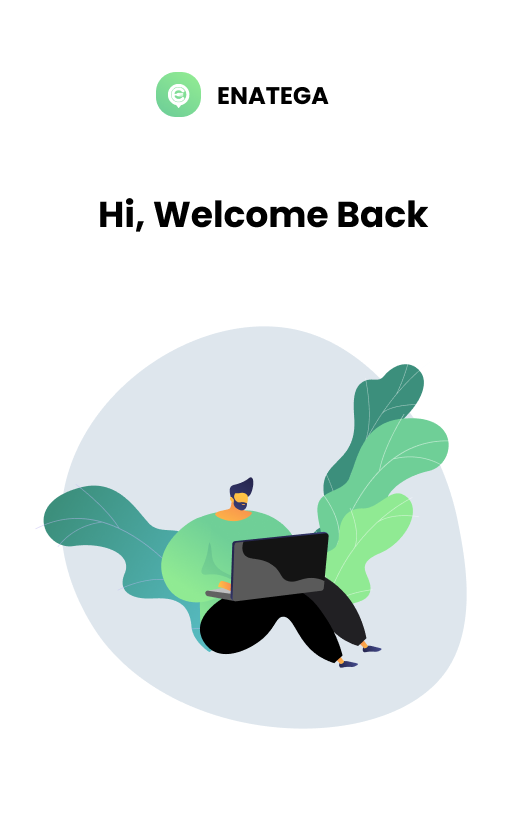
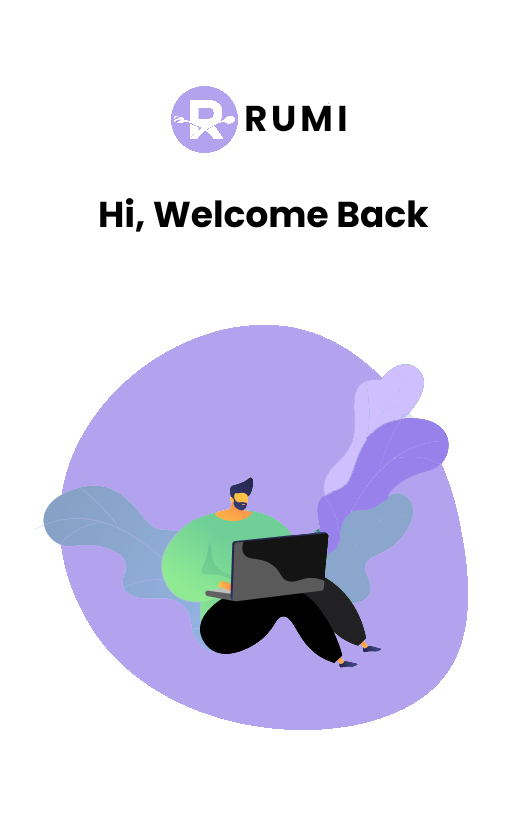
name changes

Changed region(s): [[0.0607, 0.375, 0.9108, 0.875], [0.2732, 0.0625, 0.6679, 0.1875]]

diff --git a/src/app.js b/src/app.js
@@ -64,7 +64,7 @@ const App = () => {
             // Customize notification here
             // const { title, body } = payload.notification
             // eslint-disable-next-line no-restricted-globals
-            var notificationTitle = 'New Order on Rumi Multivendor'
+            var notificationTitle = 'New Order on Rami Multivendor'
             var notificationOptions = {
               body: payload.data.orderid,
               icon: 'https://multivendor-admin.ninjascode.com/favicon.png'

diff --git a/src/components/Configuration/Email/Email.jsx b/src/components/Configuration/Email/Email.jsx
@@ -105,7 +105,7 @@ function Email(props) {
                   style={{ marginTop: -1 }}
                   id="input-emailName"
                   name="input-emailName"
-                  placeholder="e.g Rumi"
+                  placeholder="e.g Rami"
                   type="text"
                   defaultValue={emailName}
                   onBlur={event =>

diff --git a/public/index.html b/public/index.html
@@ -31,7 +31,7 @@
   <link rel="preconnect" href="https://fonts.gstatic.com" crossorigin>
   <link href="https://fonts.googleapis.com/css2?family=Inter:wght@100;200;300;400;500;600;700;900&display=swap"
     rel="stylesheet">
-  <title>Rumi Multivendor Dashboard</title>
+  <title>Rami Multivendor Dashboard</title>
   <style>
     body {
       margin: 0;

diff --git a/src/views/Login.jsx b/src/views/Login.jsx
@@ -171,7 +171,7 @@ const Login = props => {
             <Box className={classes.flexRow}>
               <Box item className={classes.heading}>
                 <Typography variant="h6" className={classes.text}>
-                  Login to Rumi
+                  Login to Rami
                 </Typography>
               </Box>
             </Box>

diff --git a/src/components/Navbars/AuthNavbar.jsx b/src/components/Navbars/AuthNavbar.jsx
@@ -12,7 +12,7 @@ function AdminNavbar(props) {
       <AppBar position="static" sx={{ bgcolor: 'primary.main2', boxShadow: 0 }}>
         <Toolbar>
           <Typography variant="h6" component="div" sx={{ flexGrow: 1 }}>
-            Rumi Dashboard
+            Rami Dashboard
           </Typography>
         </Toolbar>
       </AppBar>

diff --git a/src/components/Sidebar/AdminSidebar.jsx b/src/components/Sidebar/AdminSidebar.jsx
@@ -34,7 +34,7 @@ function AdminSidebar(props) {
         <Typography
           variant="h2"
           className={[classes.headingText, classes.logoText]}>
-          RUMI
+          RAMI
         </Typography>
       </Toolbar>
       <Box className={classes.sidebarList}>

diff --git a/src/components/Sidebar/Sidebar.jsx b/src/components/Sidebar/Sidebar.jsx
@@ -42,7 +42,7 @@ function Sidebar(props) {
         <Typography
           variant="h2"
           className={[classes.headingText, classes.logoText]}>
-          RUMI
+          RAMI
         </Typography>
       </Toolbar>
       {restaurantName && restaurantImage ? (

diff --git a/src/components/Navbars/AdminNavbar.jsx b/src/components/Navbars/AdminNavbar.jsx
@@ -84,7 +84,7 @@ function AdminNavbar(props) {
                 mt={1}
                 sx={{ fontWeight: 'bold' }}
                 color="common.black">
-                Rumi
+                Rami
               </Typography>
             </Box>
             <Menu
